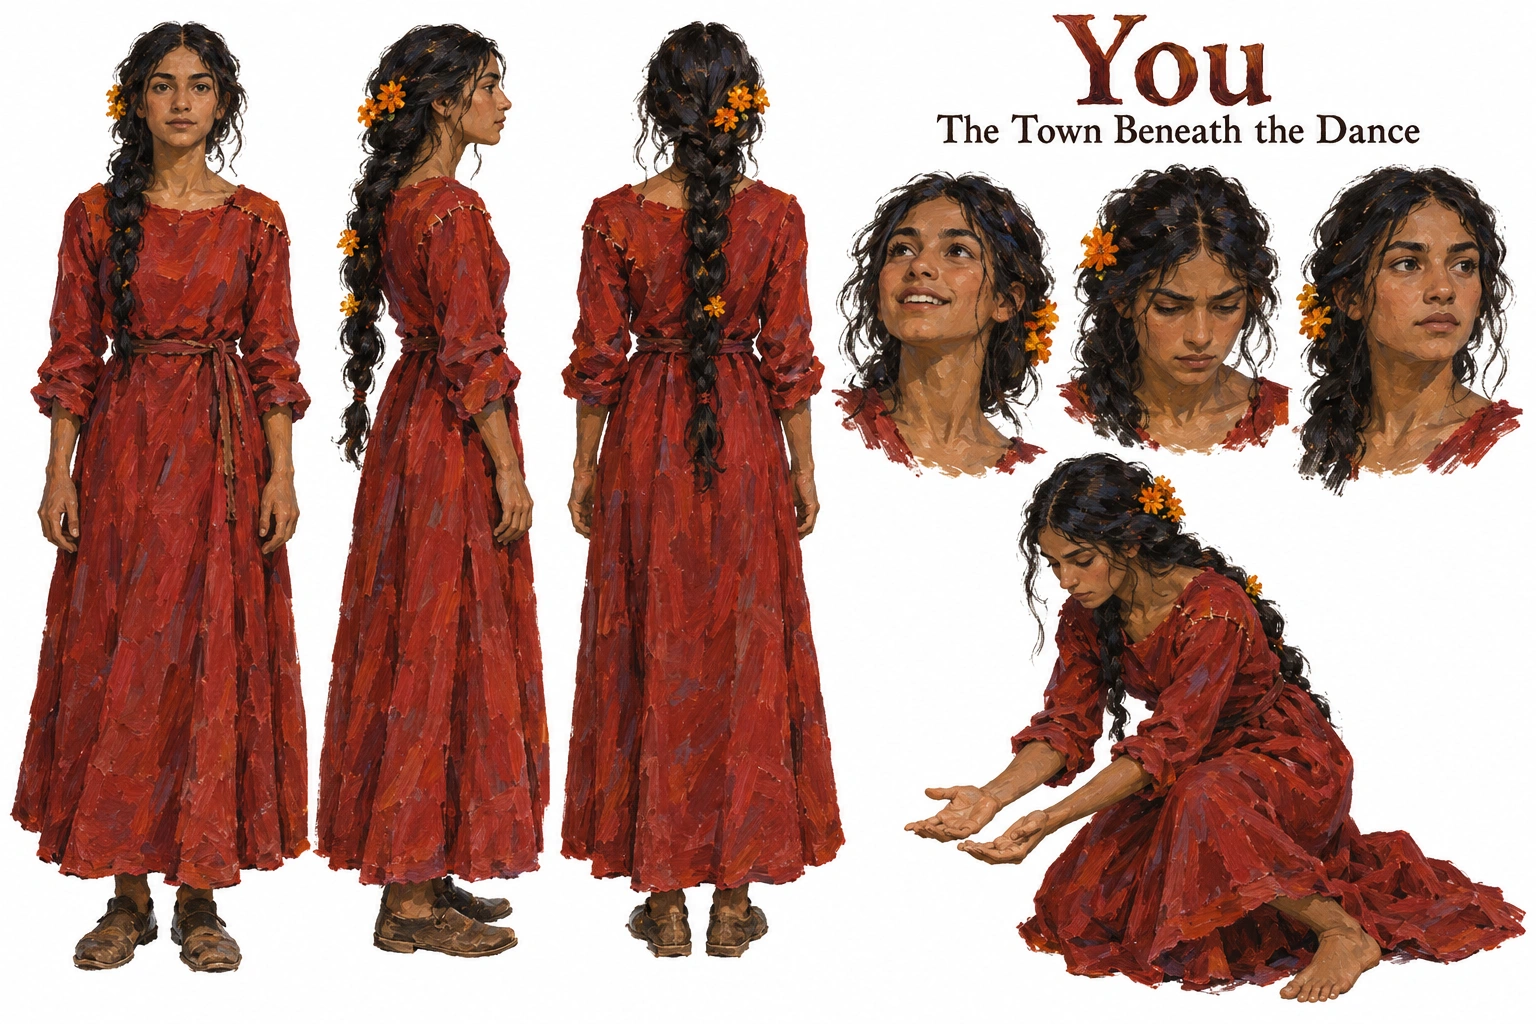
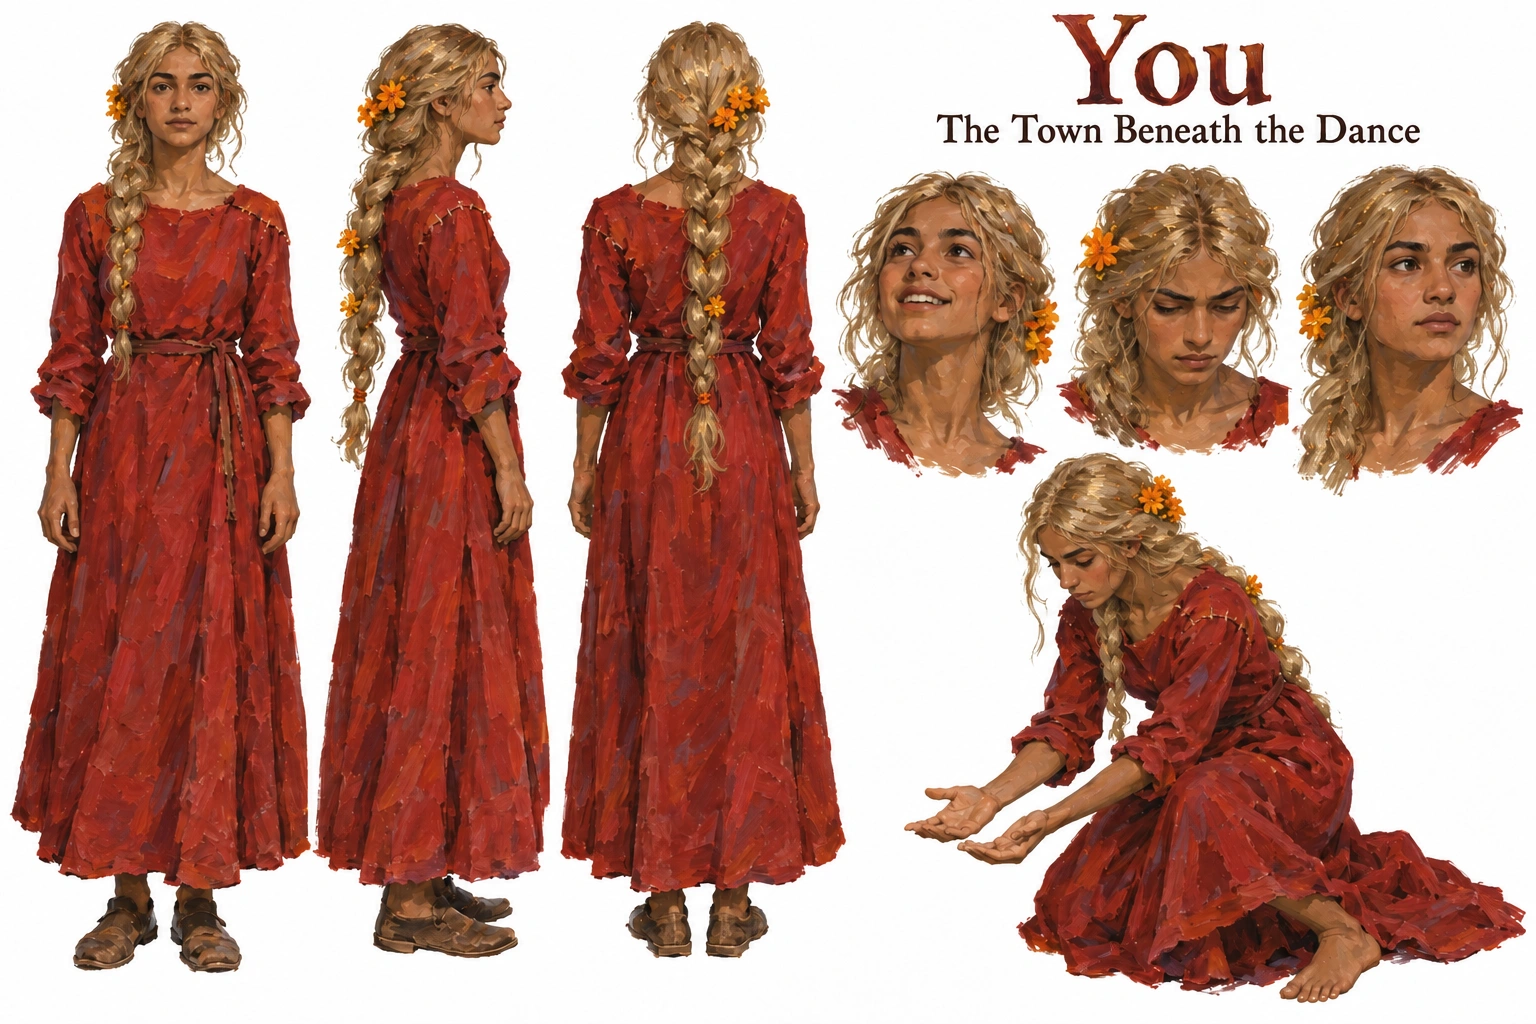
Give You blonde hair in reference sheet and cover

diff --git a/stories/the-town-beneath-the-dance/notes.md b/stories/the-town-beneath-the-dance/notes.md
@@ -19,3 +19,5 @@ Both returning readers then reread the entire revised prose. Codex no longer rea
 Both final readers reread the whole current story. Codex's harshness concern changed: “She has changed what she acknowledges and considers; she remains capable of choosing a dangerous act.” It found the house hazard clear and no new consequential break. Claude found instruction and attribution repaired, the physical pressure improved, and both ending pulls active; its diminished-menace effect was “reduced, not gone,” but it would add no more. The coordinator accepted that remaining tempo difference because the held success must stay plausible and the distinct rescues make the loss human. It also retained the ridge girl's compressed “She's still there”: her preceding mother/hill request and ignorance of the other girls make its referent sufficient, though Claude noted a brief possible snag. This is deliberate dissent, not consensus by vote. The current prose is ready because its joy causes the danger, its uncertain civic choice is real, and its ending gives benefit and cost felt weight without a cure or verdict. Prompt gifts, names, chronology, space, knowledge, and living agency were checked; no shared authority conflict or canon addition was found. Art follows this prose.
 
 2026-10-14, art and final classification: Built-in ImageGen produced seven separate white-background character/creature sheets and five important-location paintings before the cover. The illustrator inspected each saved reference and its final WebP pixels; the coordinator also checked the sky-reader, market, and sleeper. Repairs preserved Mysie's single burnt cuff, Hett's tucked braid, five clear sleeper claws, the connected house stair, and the destroyed house in the refugee view. The cover then used the four accepted witches, sleeper, and market as actual visual inputs (You and Nort travelled in one lossless temporary input carrier; their accepted sheets remain separate). Its five-claw repair, four identities, exact title once, geography, and final 864×1536 JPEG pixels were inspected by both illustrator and coordinator. Collection brushwork followed the inspected Apple Orchard Hillside and The Stream After Ash paintings named in universe/art.md. Unspecified faces and clothing details are visual interpretations, not new shared facts. The finished prose and cover were rated General, with specific peril/displacement notes in ratings.md. No further prose or art change remains pending.
+
+2026-10-14, user-directed hair correction: The user requested blonde hair for You. The prose leaves the narrator's hair colour unspecified. Built-in ImageGen changed her long braid to natural golden blonde in every view of her existing white-background sheet, preserving her face, skin, scarlet gown, flowers, poses and labels. After inspecting the final WebP, the coordinator used it as the identity reference for a matching local cover edit. The final JPEG was inspected for the blonde braid, four distinct witches, preserved composition, exact title, five sleeper claws and town geography. The finished prose and corrected cover were reassessed together; General remains appropriate. Exact edit prompts and inputs are retained in tmp/blonde-art-prompts.md. These are package-specific visual choices, with no shared-fact or prose change.

diff --git a/stories/the-town-beneath-the-dance/prompt.md b/stories/the-town-beneath-the-dance/prompt.md
@@ -2,6 +2,10 @@
 
 [WP] Four young witches arrive in a market town by the sea with little more than scarlet gowns, marigolds in their hair, and a handful of half-formed gifts—Nort can speak to crows and roots, Mysie can summon fire and make rivers glow, Elspie commands wind and rain, and you can read the sky and awaken what sleeps beneath the earth. What begins as a joyful midnight dance of shared learning soon becomes something far more dangerous when the four of you discover your magic does not merely grow when practiced—it multiplies when shared, awakening ancient forces hidden under the town. As more girls are drawn into your circle and the old words begin to ring across the land, the town must decide whether you are the start of a golden age of wonder or the first spark of a power no one will be able to control.
 
+## Follow-up art direction
+
+2026-10-14: i think the "YOU" character reference needs blonde hair.
+
 ## Reference images
 
 None supplied.
